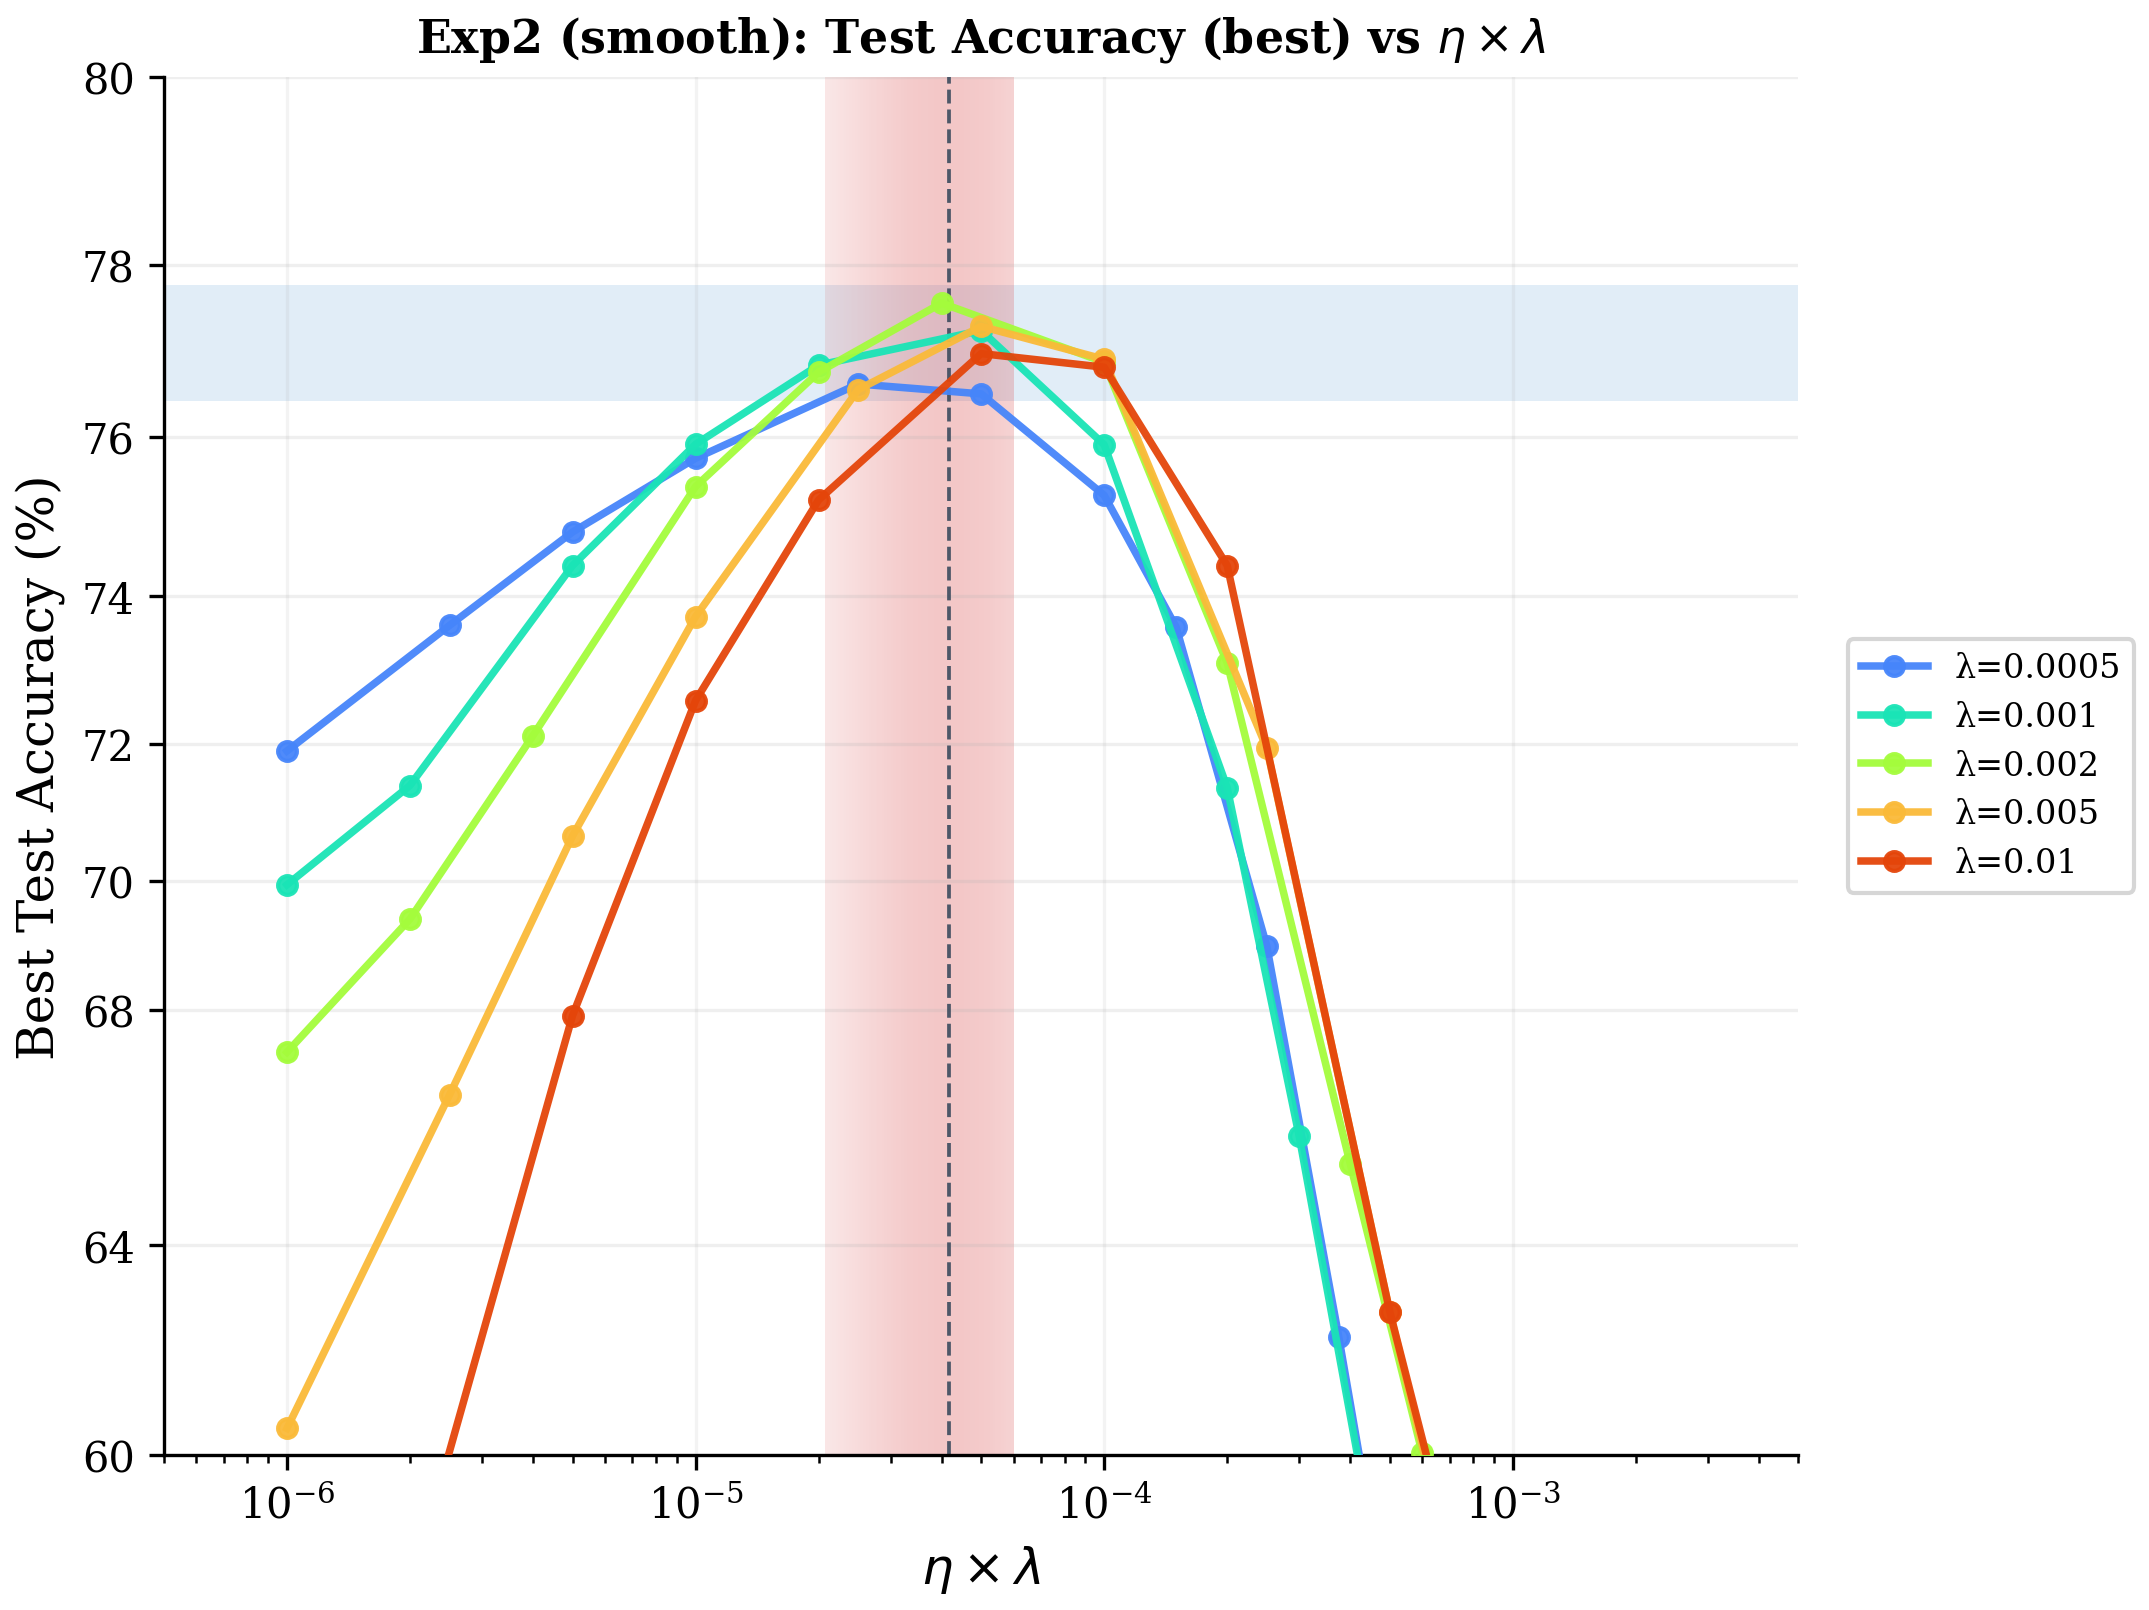
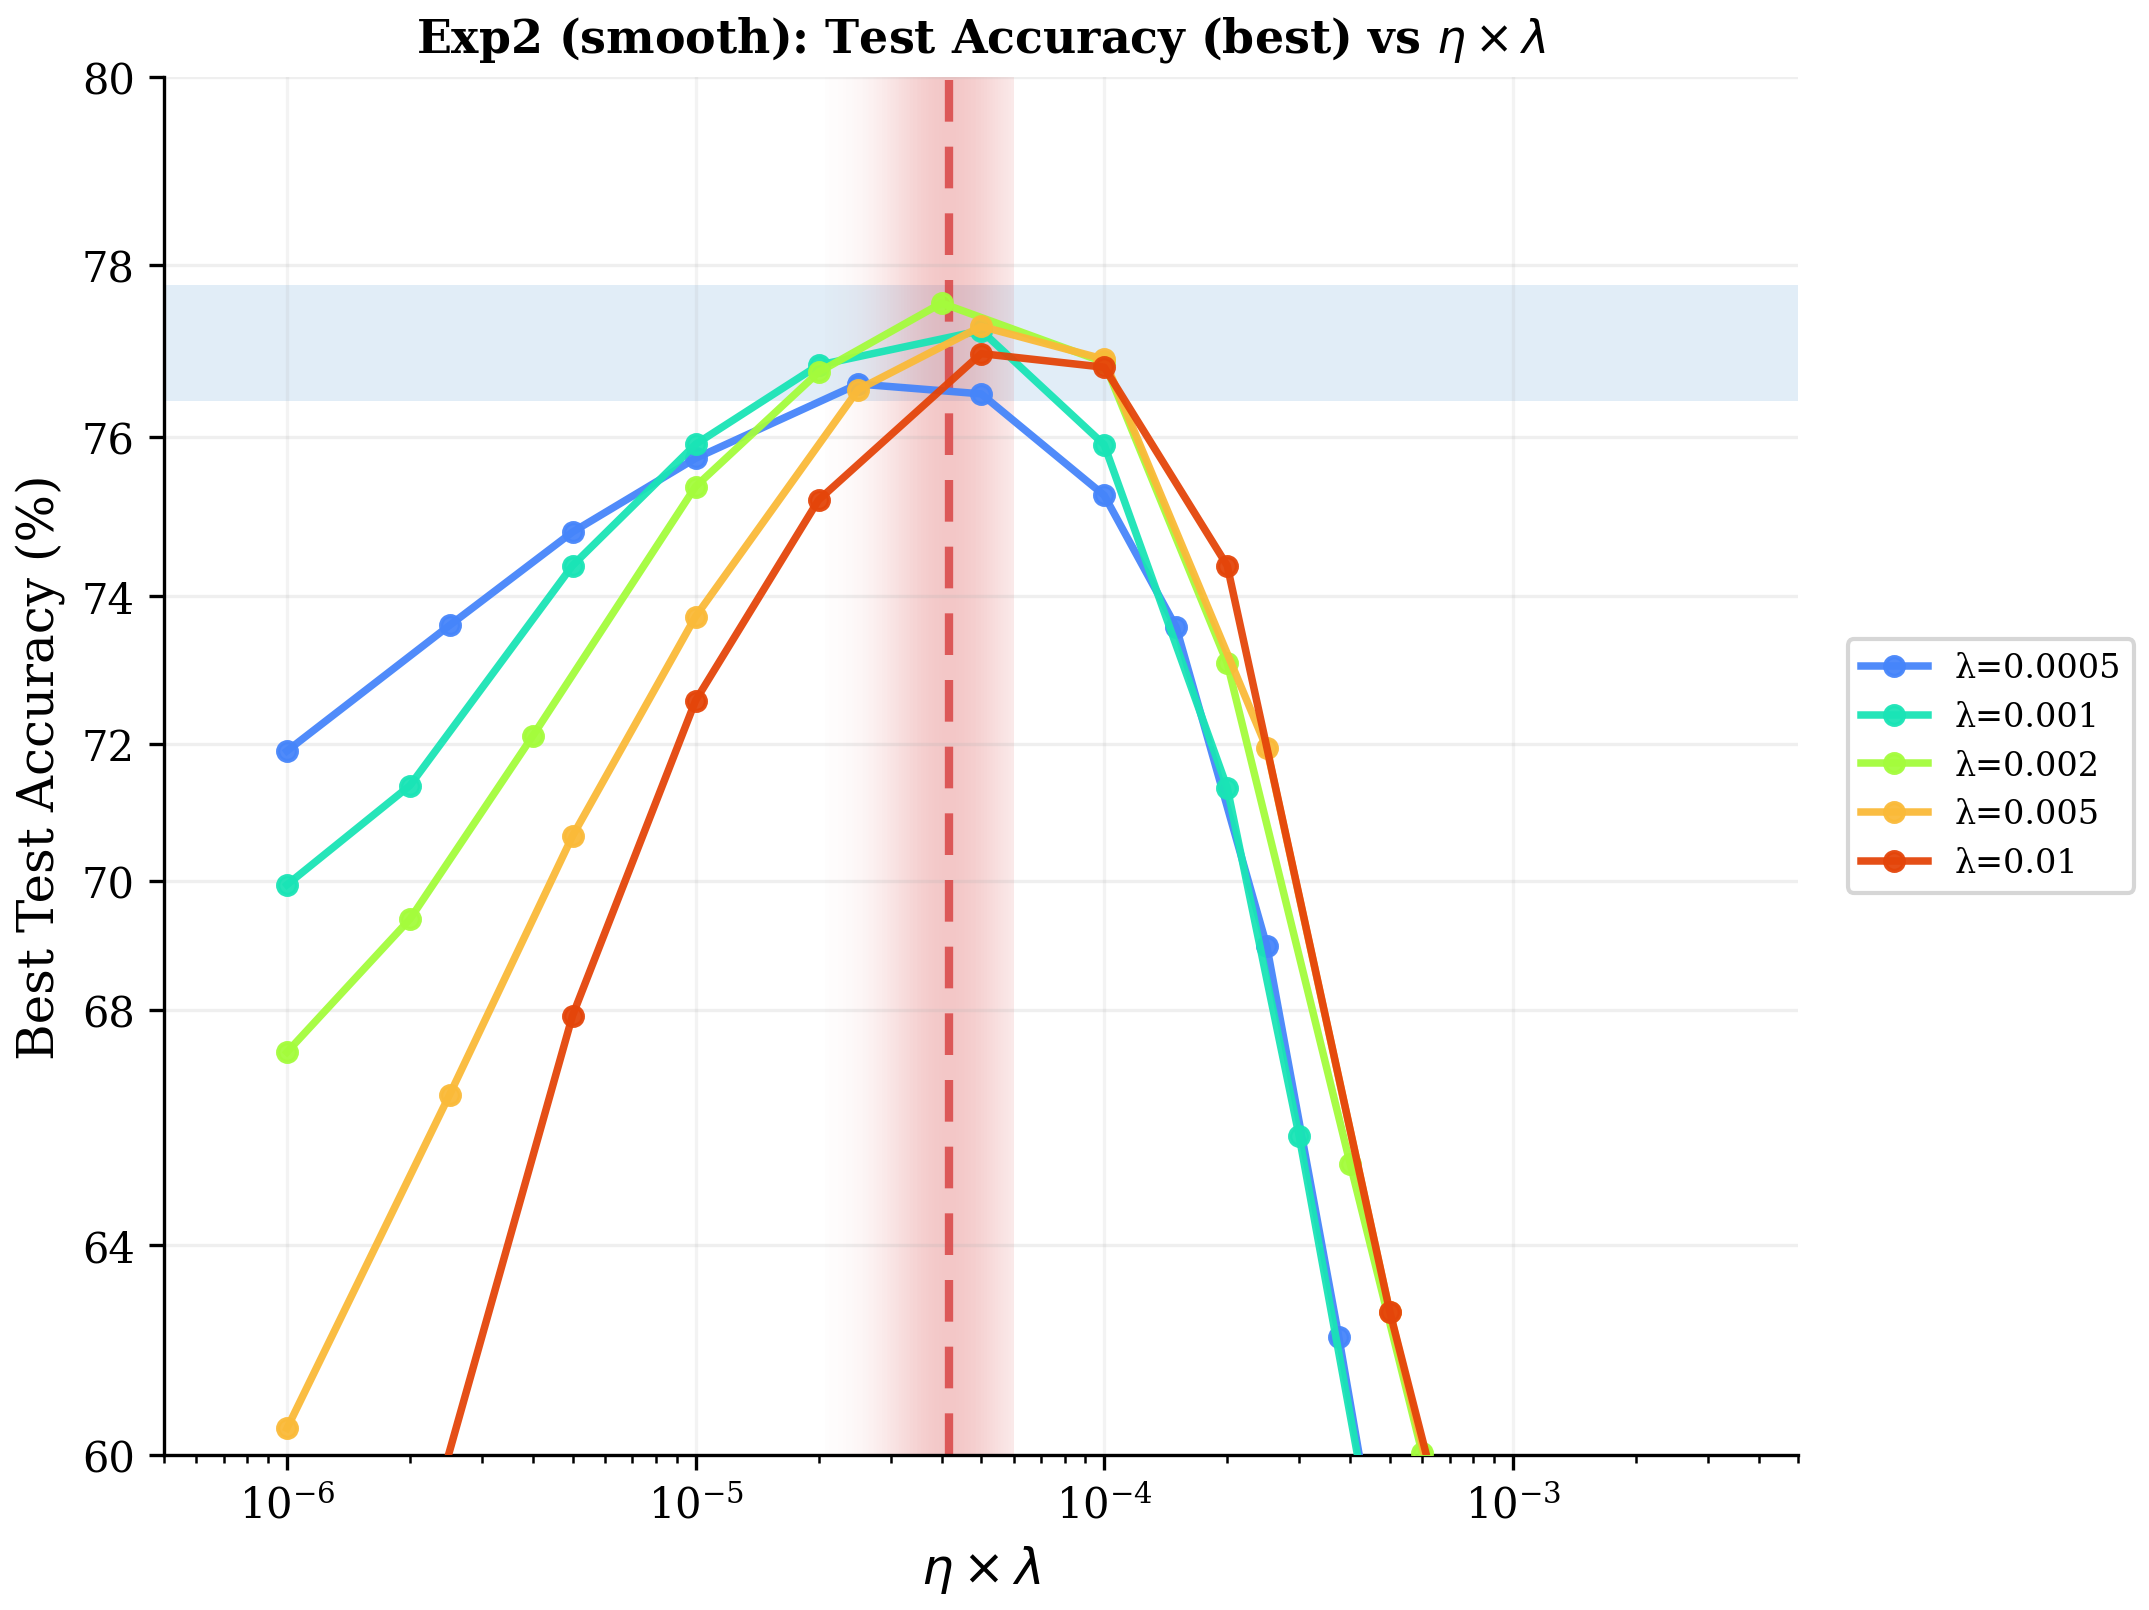
rebuttal: sharper white-red-white gradient, thicker red dashed centre line
- x-band gradient: tighter sigma (0.30 of band width) and an extra
  ^1.5 power so the edges fade more aggressively to white, leaving a
  pronounced red core.
- centre crosshair: red (matches band), 2 pt thick dashed line
  (alpha 0.85) instead of the previous thin gray.

Changed region(s): [[0.3741, 0.0311, 0.4677, 0.9006]]

diff --git a/rebuttal/generate_figures.py b/rebuttal/generate_figures.py
@@ -639,9 +639,10 @@ def plot_exp2_focused_smooth(ext_dfs,
             r, g, b = to_rgb(const_xband_color)
             n_strip = 120
             grid = np.linspace(x_lo, x_hi, n_strip + 1)
-            sigma = max(0.5 * (x_hi - x_lo), 0.05)
+            sigma = max(0.30 * (x_hi - x_lo), 0.03)
             mids = 0.5 * (grid[:-1] + grid[1:])
             strength = np.exp(-((mids - peak_x_mean) ** 2) / (2 * sigma ** 2))
+            strength = strength ** 1.5
             xs_edge = np.power(10.0, grid)
             ys_edge = np.array([ylim[0], ylim[1]])
             X, Y = np.meshgrid(xs_edge, ys_edge)
@@ -654,10 +655,10 @@ def plot_exp2_focused_smooth(ext_dfs,
                           zorder=1, rasterized=True)
 
         if show_optimum_cross:
-            cross_alpha = min(1.0, max(const_band_alpha, const_xband_alpha) * 3.0)
             ax.axvline(float(np.power(10.0, peak_x_mean)),
-                       color='#3a4a5d', linestyle='--',
-                       linewidth=0.9, alpha=cross_alpha, zorder=2)
+                       color=const_xband_color,
+                       linestyle=(0, (5, 3)),
+                       linewidth=2.0, alpha=0.85, zorder=2)
 
     ax.set_xscale('log')
     ax.set_xlim(view_lo, view_hi)
